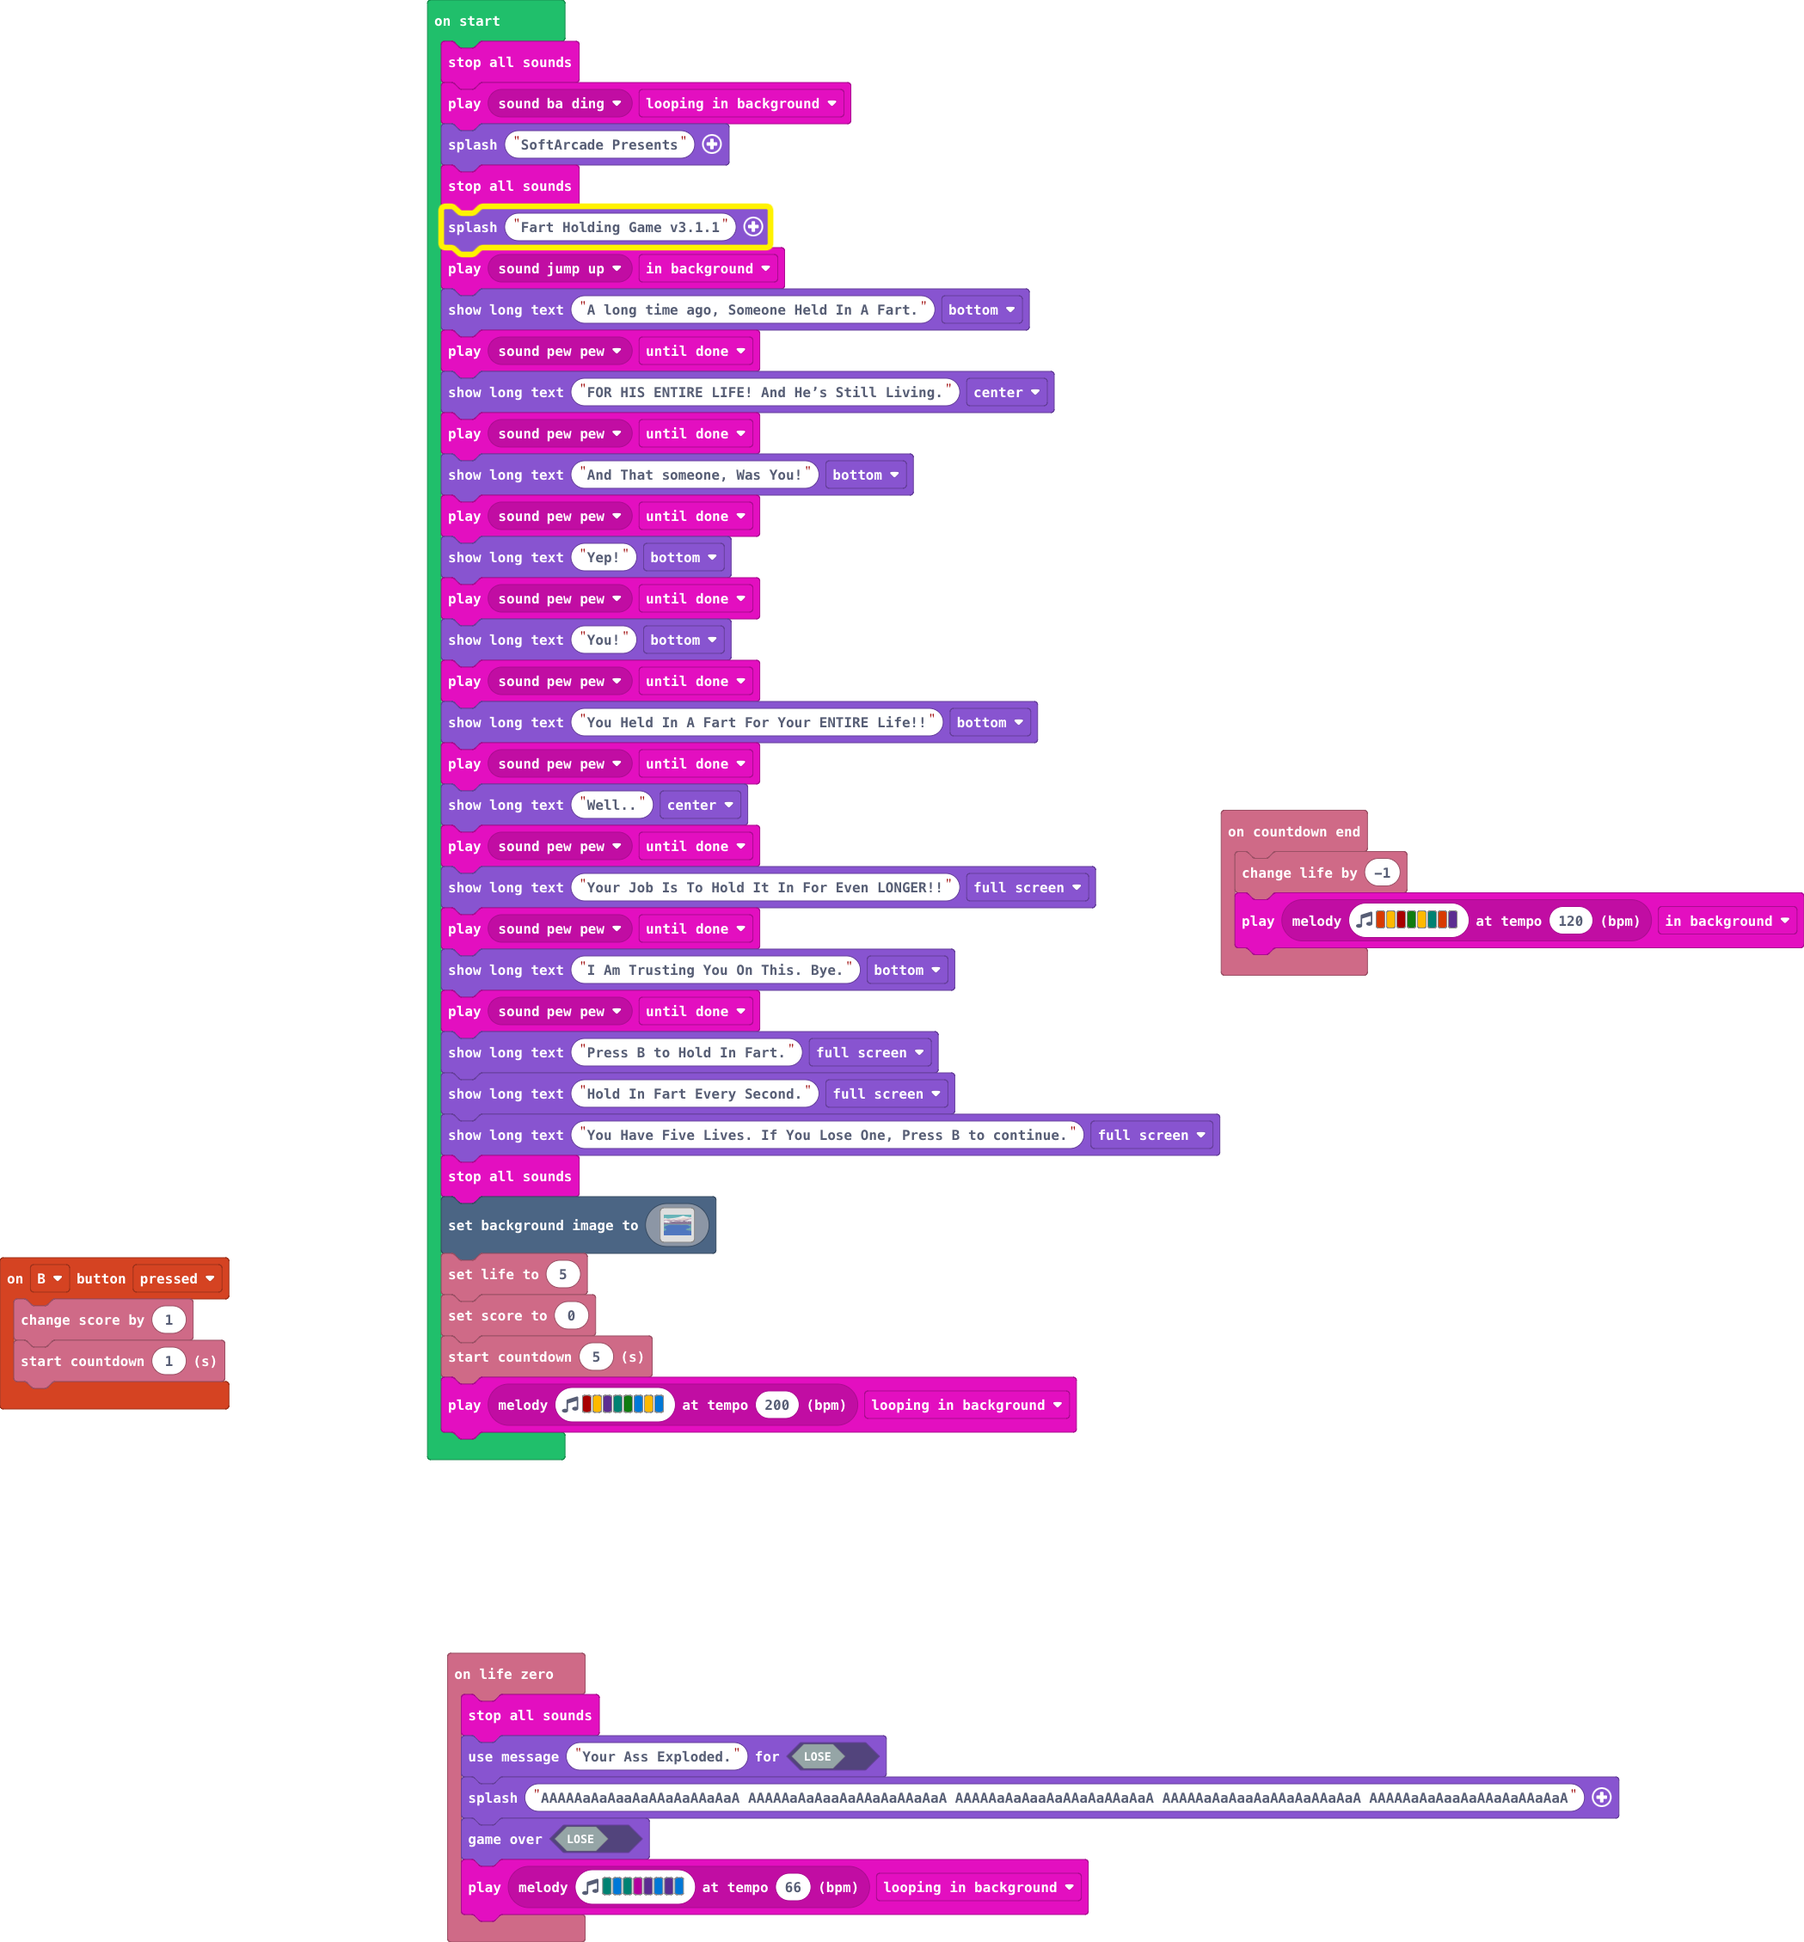
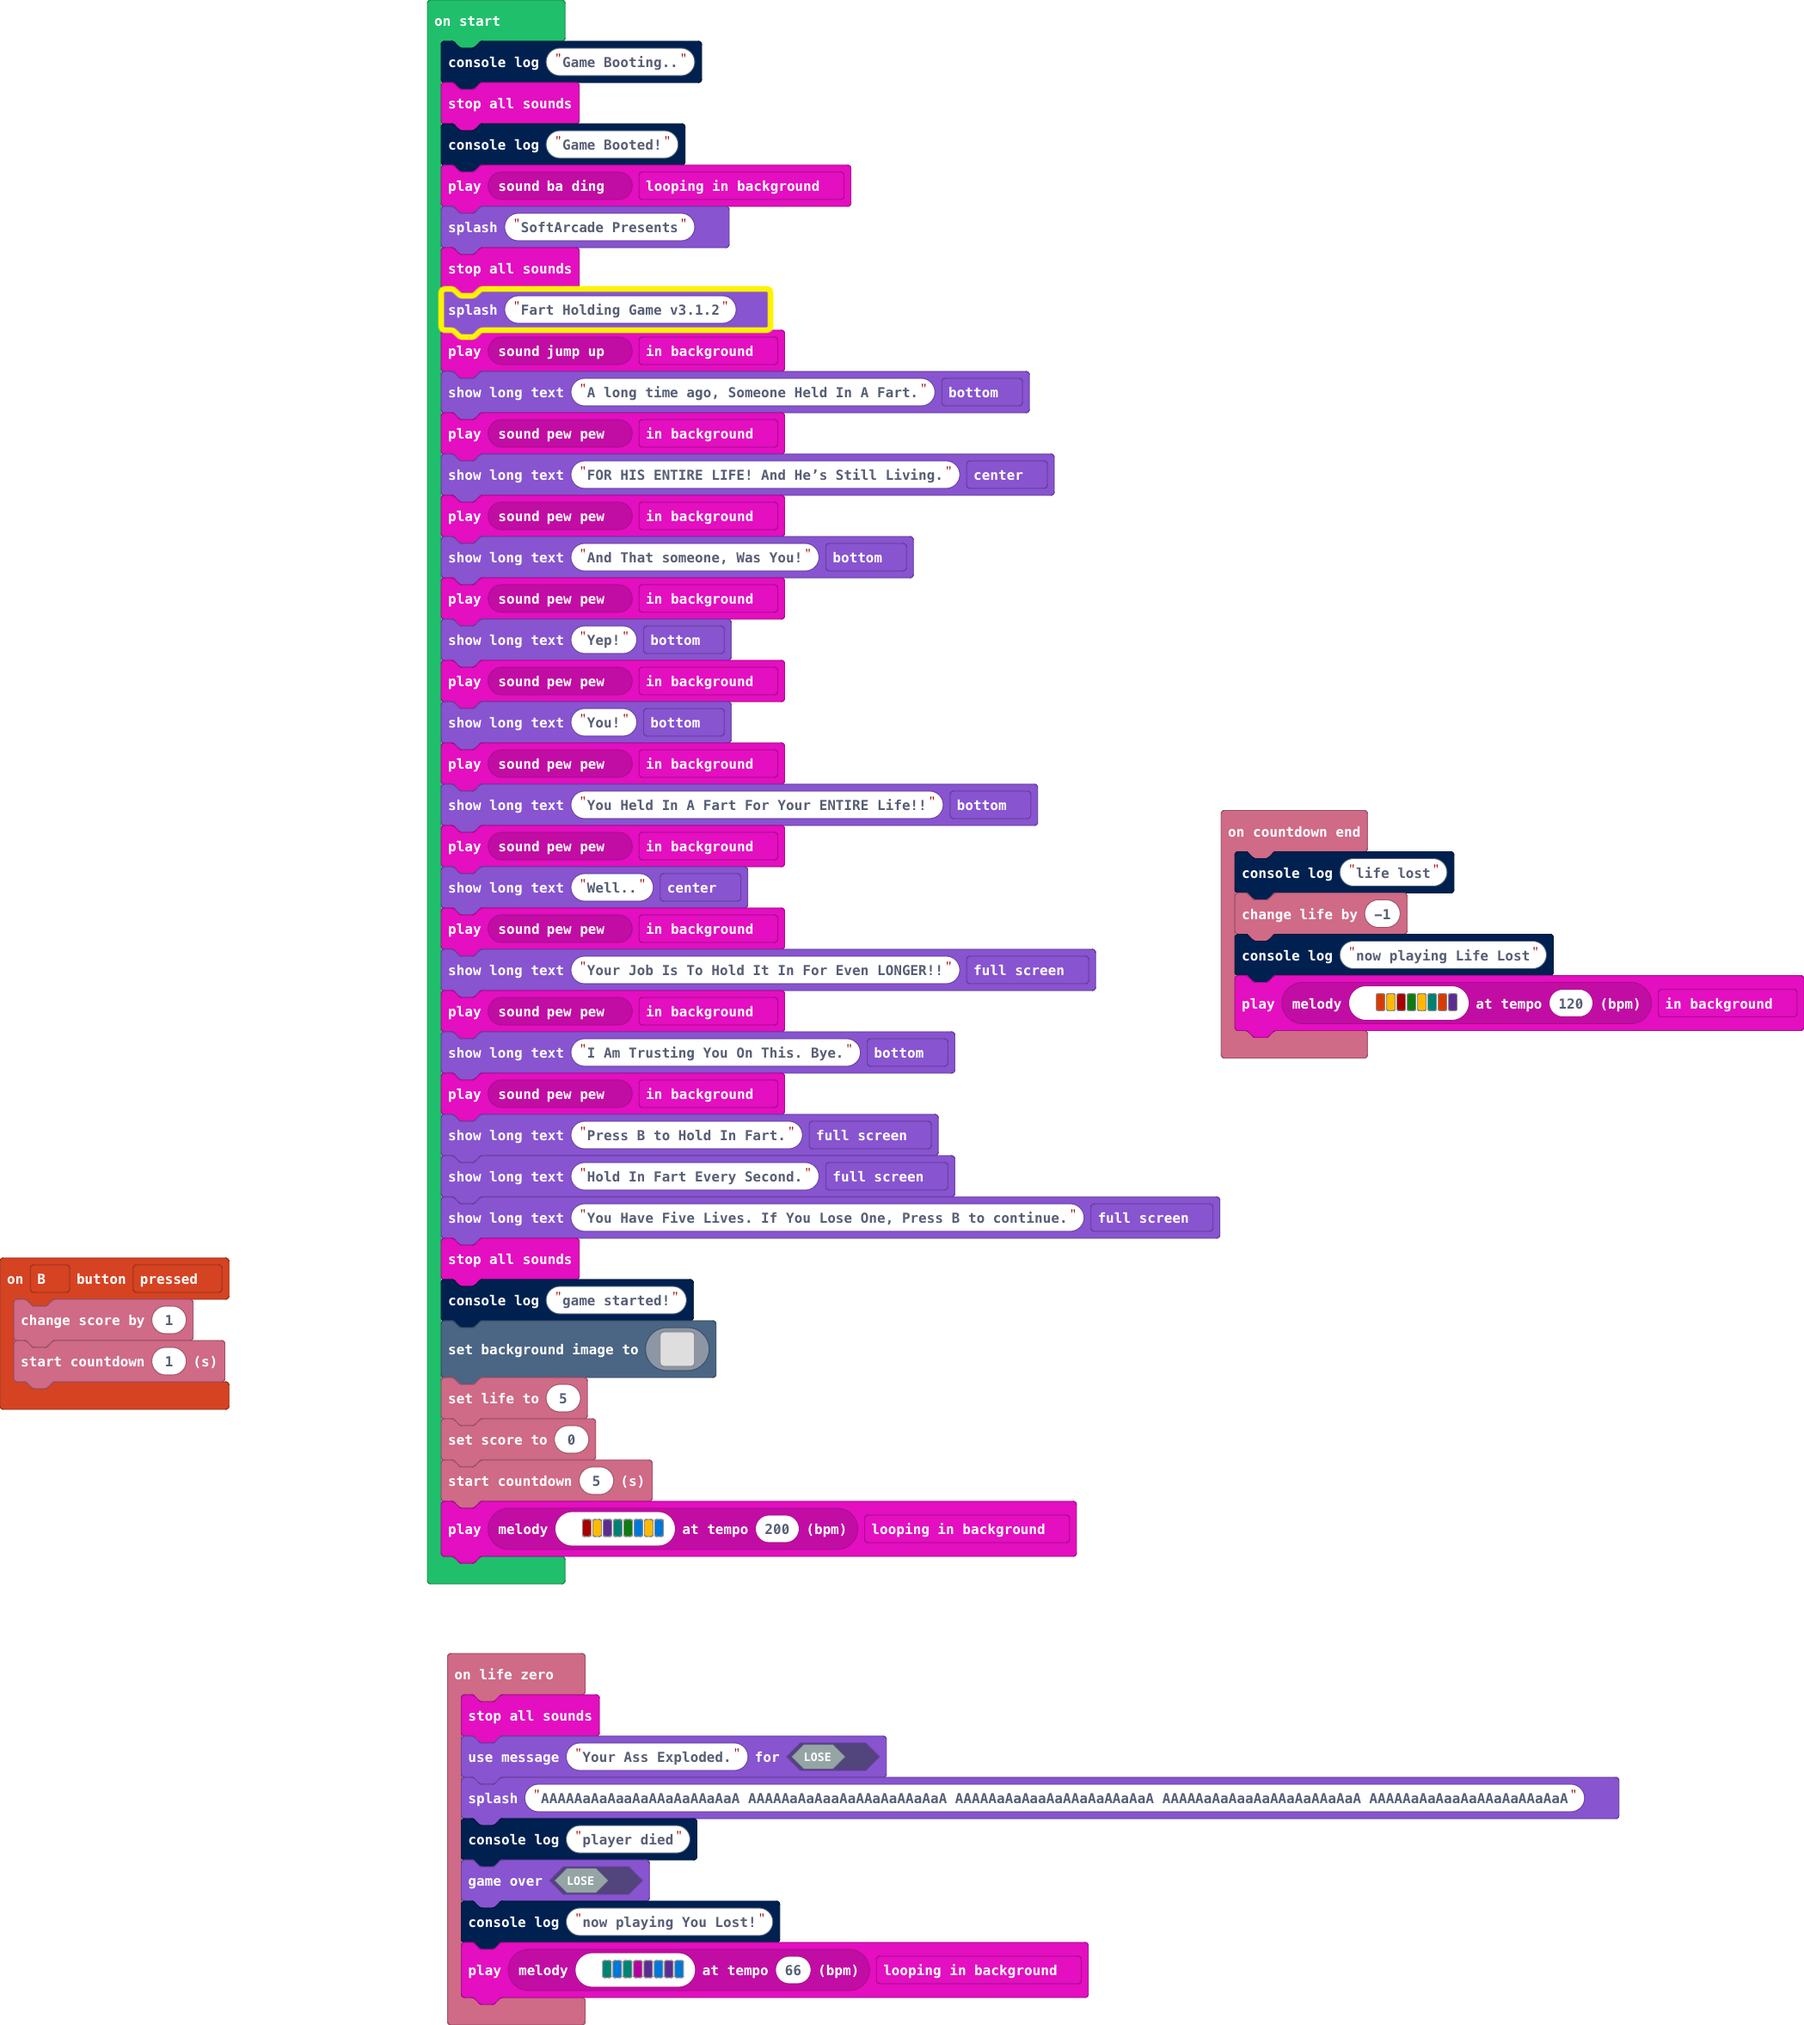
some console stuff!

Changed region(s): [[0.2169, 0.0, 0.8985, 0.9916], [0.6506, 0.4028, 1.0, 0.5268], [0.0, 0.6197, 0.1239, 0.7437]]

diff --git a/main.ts b/main.ts
@@ -3,44 +3,51 @@ controller.B.onEvent(ControllerButtonEvent.Pressed, function () {
     info.startCountdown(1)
 })
 info.onCountdownEnd(function () {
+    console.log("life lost")
     info.changeLifeBy(-1)
+    console.log("now playing Life Lost")
     music.play(music.stringPlayable("B A C5 G A F B D ", 120), music.PlaybackMode.InBackground)
 })
 info.onLifeZero(function () {
     music.stopAllSounds()
     game.setGameOverMessage(false, "Your Ass Exploded.")
     game.splash("AAAAAaAaAaaAaAAaAaAAaAaA AAAAAaAaAaaAaAAaAaAAaAaA AAAAAaAaAaaAaAAaAaAAaAaA AAAAAaAaAaaAaAAaAaAAaAaA AAAAAaAaAaaAaAAaAaAAaAaA")
+    console.log("player died")
     game.gameOver(false)
+    console.log("now playing You Lost!")
     music.play(music.stringPlayable("F E F C D E D E ", 66), music.PlaybackMode.LoopingInBackground)
 })
+console.log("Game Booting..")
 music.stopAllSounds()
+console.log("Game Booted!")
 music.play(music.melodyPlayable(music.baDing), music.PlaybackMode.LoopingInBackground)
 game.splash("SoftArcade Presents")
 music.stopAllSounds()
-game.splash("Fart Holding Game v3.1.1")
+game.splash("Fart Holding Game v3.1.2")
 music.play(music.melodyPlayable(music.jumpUp), music.PlaybackMode.InBackground)
 game.showLongText("A long time ago, Someone Held In A Fart.", DialogLayout.Bottom)
-music.play(music.melodyPlayable(music.pewPew), music.PlaybackMode.UntilDone)
+music.play(music.melodyPlayable(music.pewPew), music.PlaybackMode.InBackground)
 game.showLongText("FOR HIS ENTIRE LIFE! And He’s Still Living.", DialogLayout.Center)
-music.play(music.melodyPlayable(music.pewPew), music.PlaybackMode.UntilDone)
+music.play(music.melodyPlayable(music.pewPew), music.PlaybackMode.InBackground)
 game.showLongText("And That someone, Was You!", DialogLayout.Bottom)
-music.play(music.melodyPlayable(music.pewPew), music.PlaybackMode.UntilDone)
+music.play(music.melodyPlayable(music.pewPew), music.PlaybackMode.InBackground)
 game.showLongText("Yep!", DialogLayout.Bottom)
-music.play(music.melodyPlayable(music.pewPew), music.PlaybackMode.UntilDone)
+music.play(music.melodyPlayable(music.pewPew), music.PlaybackMode.InBackground)
 game.showLongText("You!", DialogLayout.Bottom)
-music.play(music.melodyPlayable(music.pewPew), music.PlaybackMode.UntilDone)
+music.play(music.melodyPlayable(music.pewPew), music.PlaybackMode.InBackground)
 game.showLongText("You Held In A Fart For Your ENTIRE Life!!", DialogLayout.Bottom)
-music.play(music.melodyPlayable(music.pewPew), music.PlaybackMode.UntilDone)
+music.play(music.melodyPlayable(music.pewPew), music.PlaybackMode.InBackground)
 game.showLongText("Well..", DialogLayout.Center)
-music.play(music.melodyPlayable(music.pewPew), music.PlaybackMode.UntilDone)
+music.play(music.melodyPlayable(music.pewPew), music.PlaybackMode.InBackground)
 game.showLongText("Your Job Is To Hold It In For Even LONGER!!", DialogLayout.Full)
-music.play(music.melodyPlayable(music.pewPew), music.PlaybackMode.UntilDone)
+music.play(music.melodyPlayable(music.pewPew), music.PlaybackMode.InBackground)
 game.showLongText("I Am Trusting You On This. Bye.", DialogLayout.Bottom)
-music.play(music.melodyPlayable(music.pewPew), music.PlaybackMode.UntilDone)
+music.play(music.melodyPlayable(music.pewPew), music.PlaybackMode.InBackground)
 game.showLongText("Press B to Hold In Fart.", DialogLayout.Full)
 game.showLongText("Hold In Fart Every Second.", DialogLayout.Full)
 game.showLongText("You Have Five Lives. If You Lose One, Press B to continue.", DialogLayout.Full)
 music.stopAllSounds()
+console.log("game started!")
 scene.setBackgroundImage(assets.image`Zero`)
 info.setLife(5)
 info.setScore(0)
